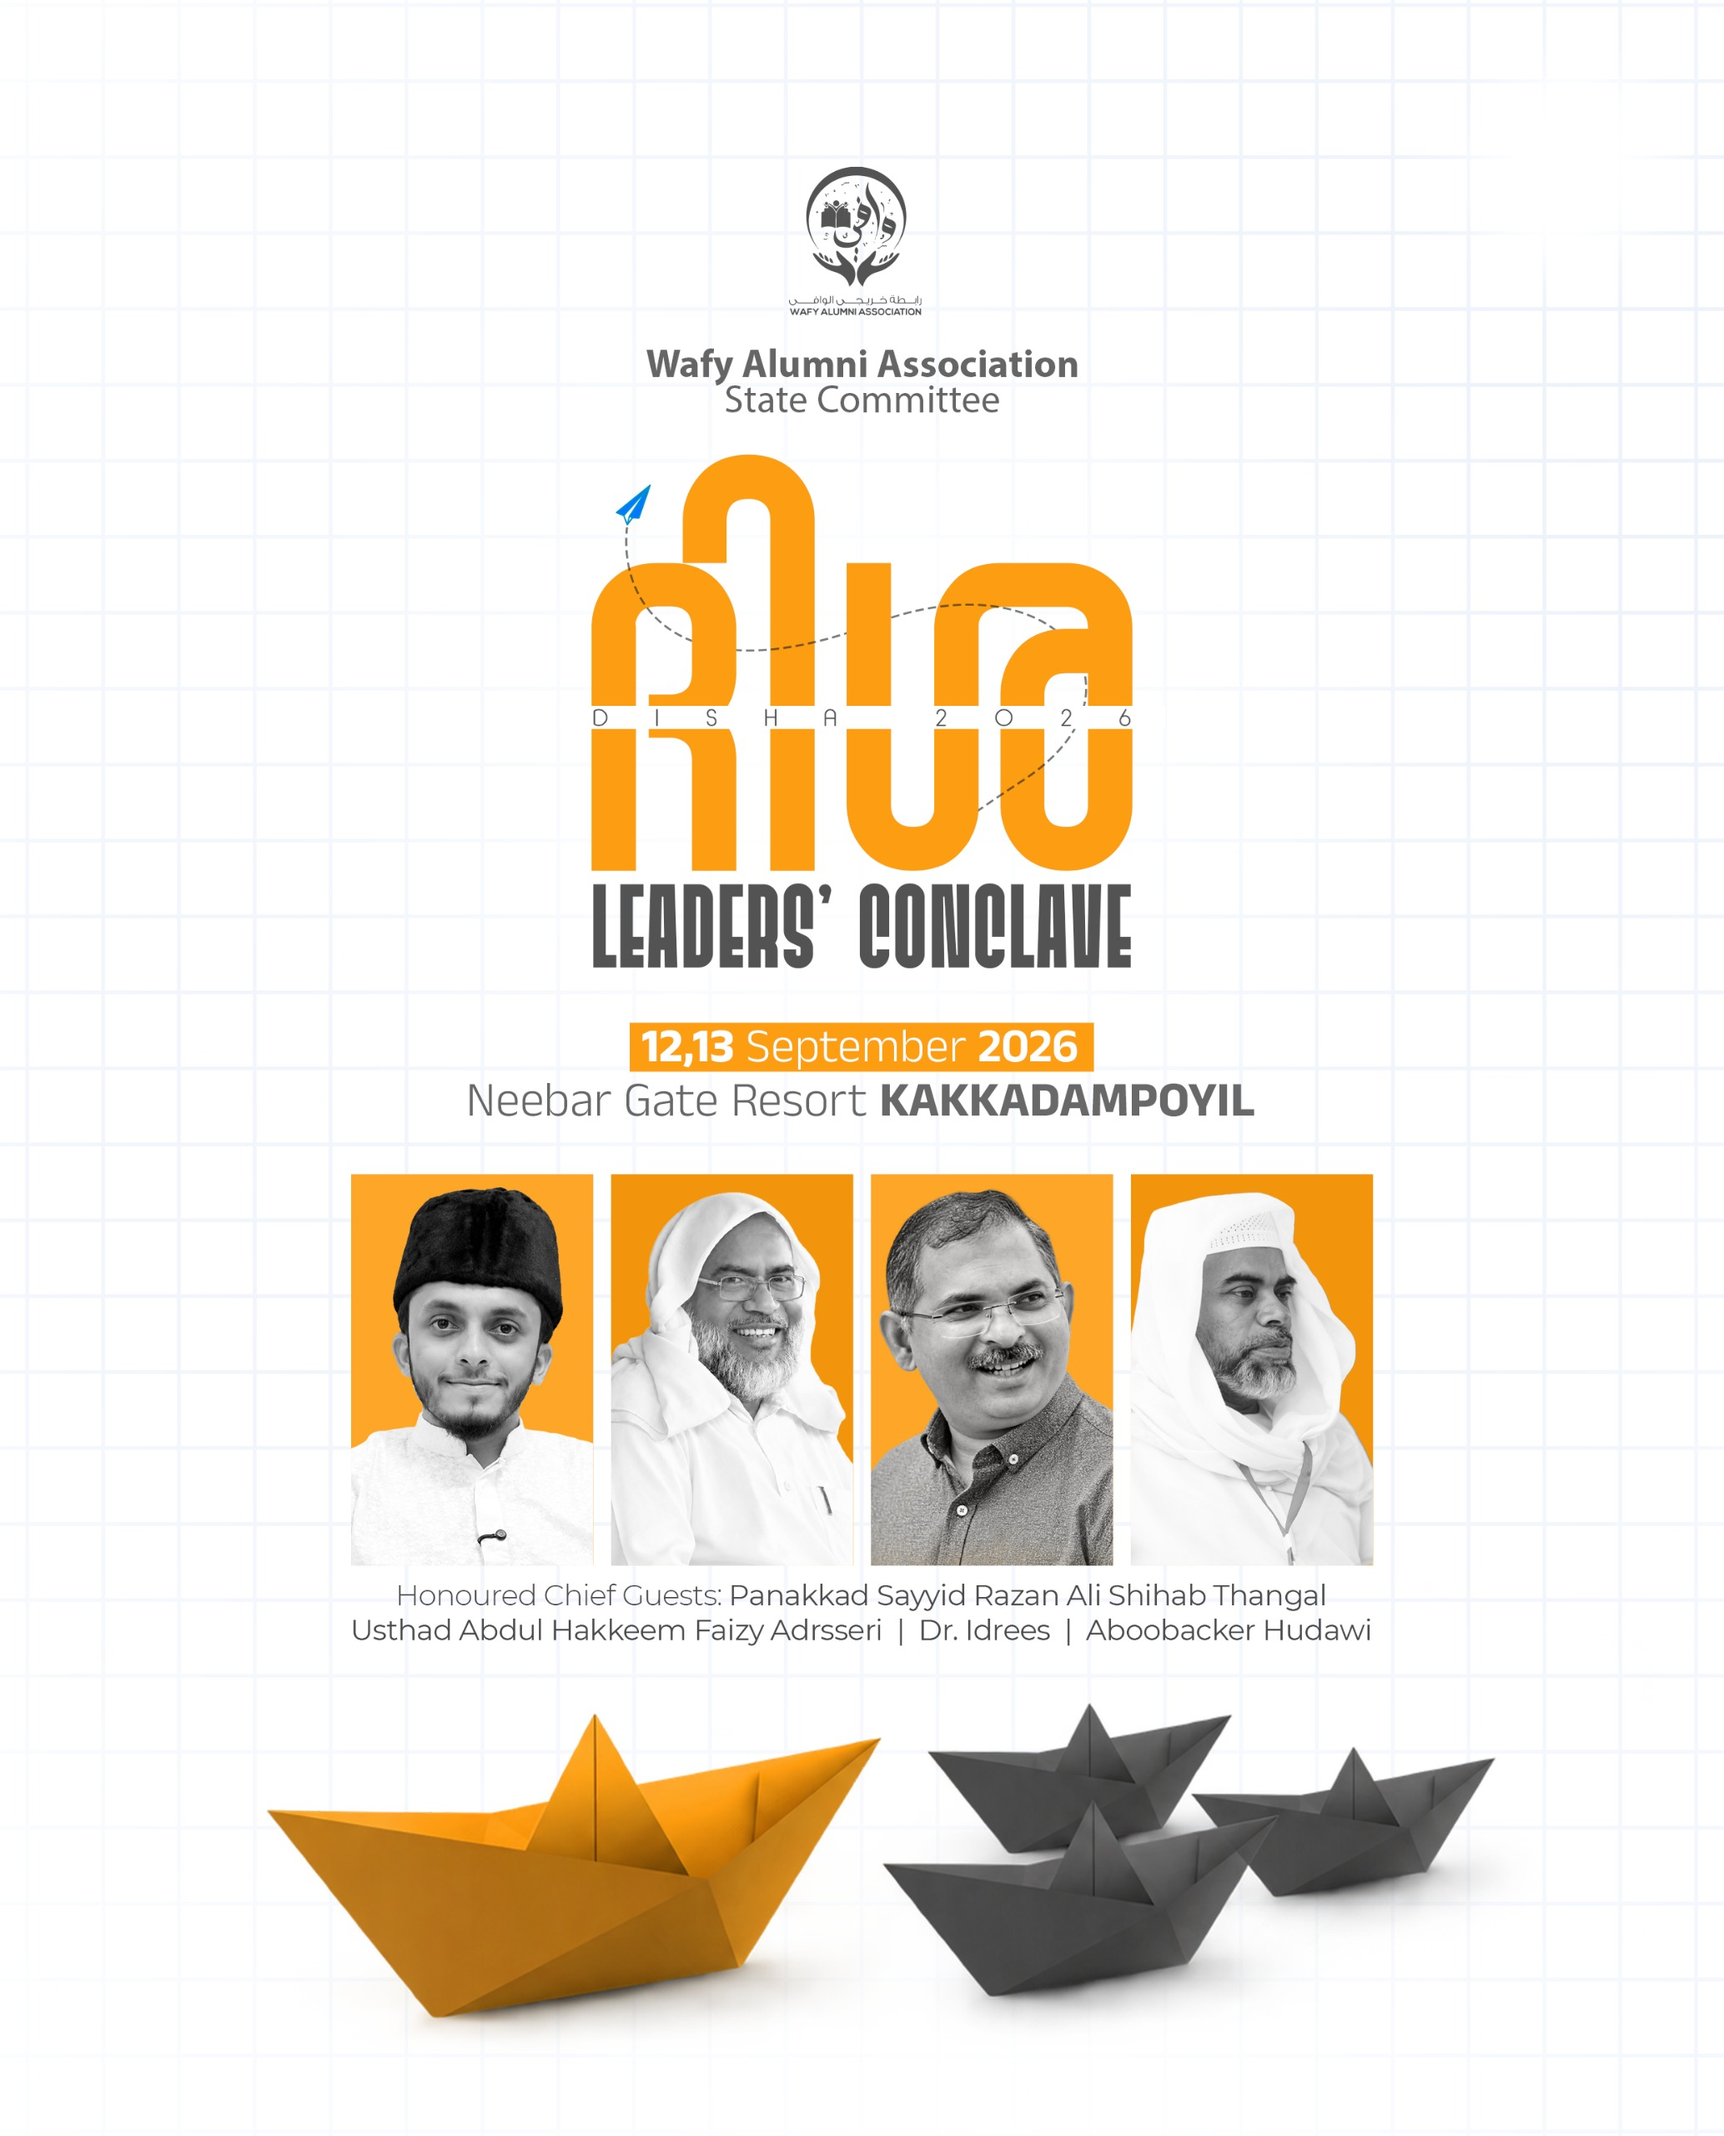
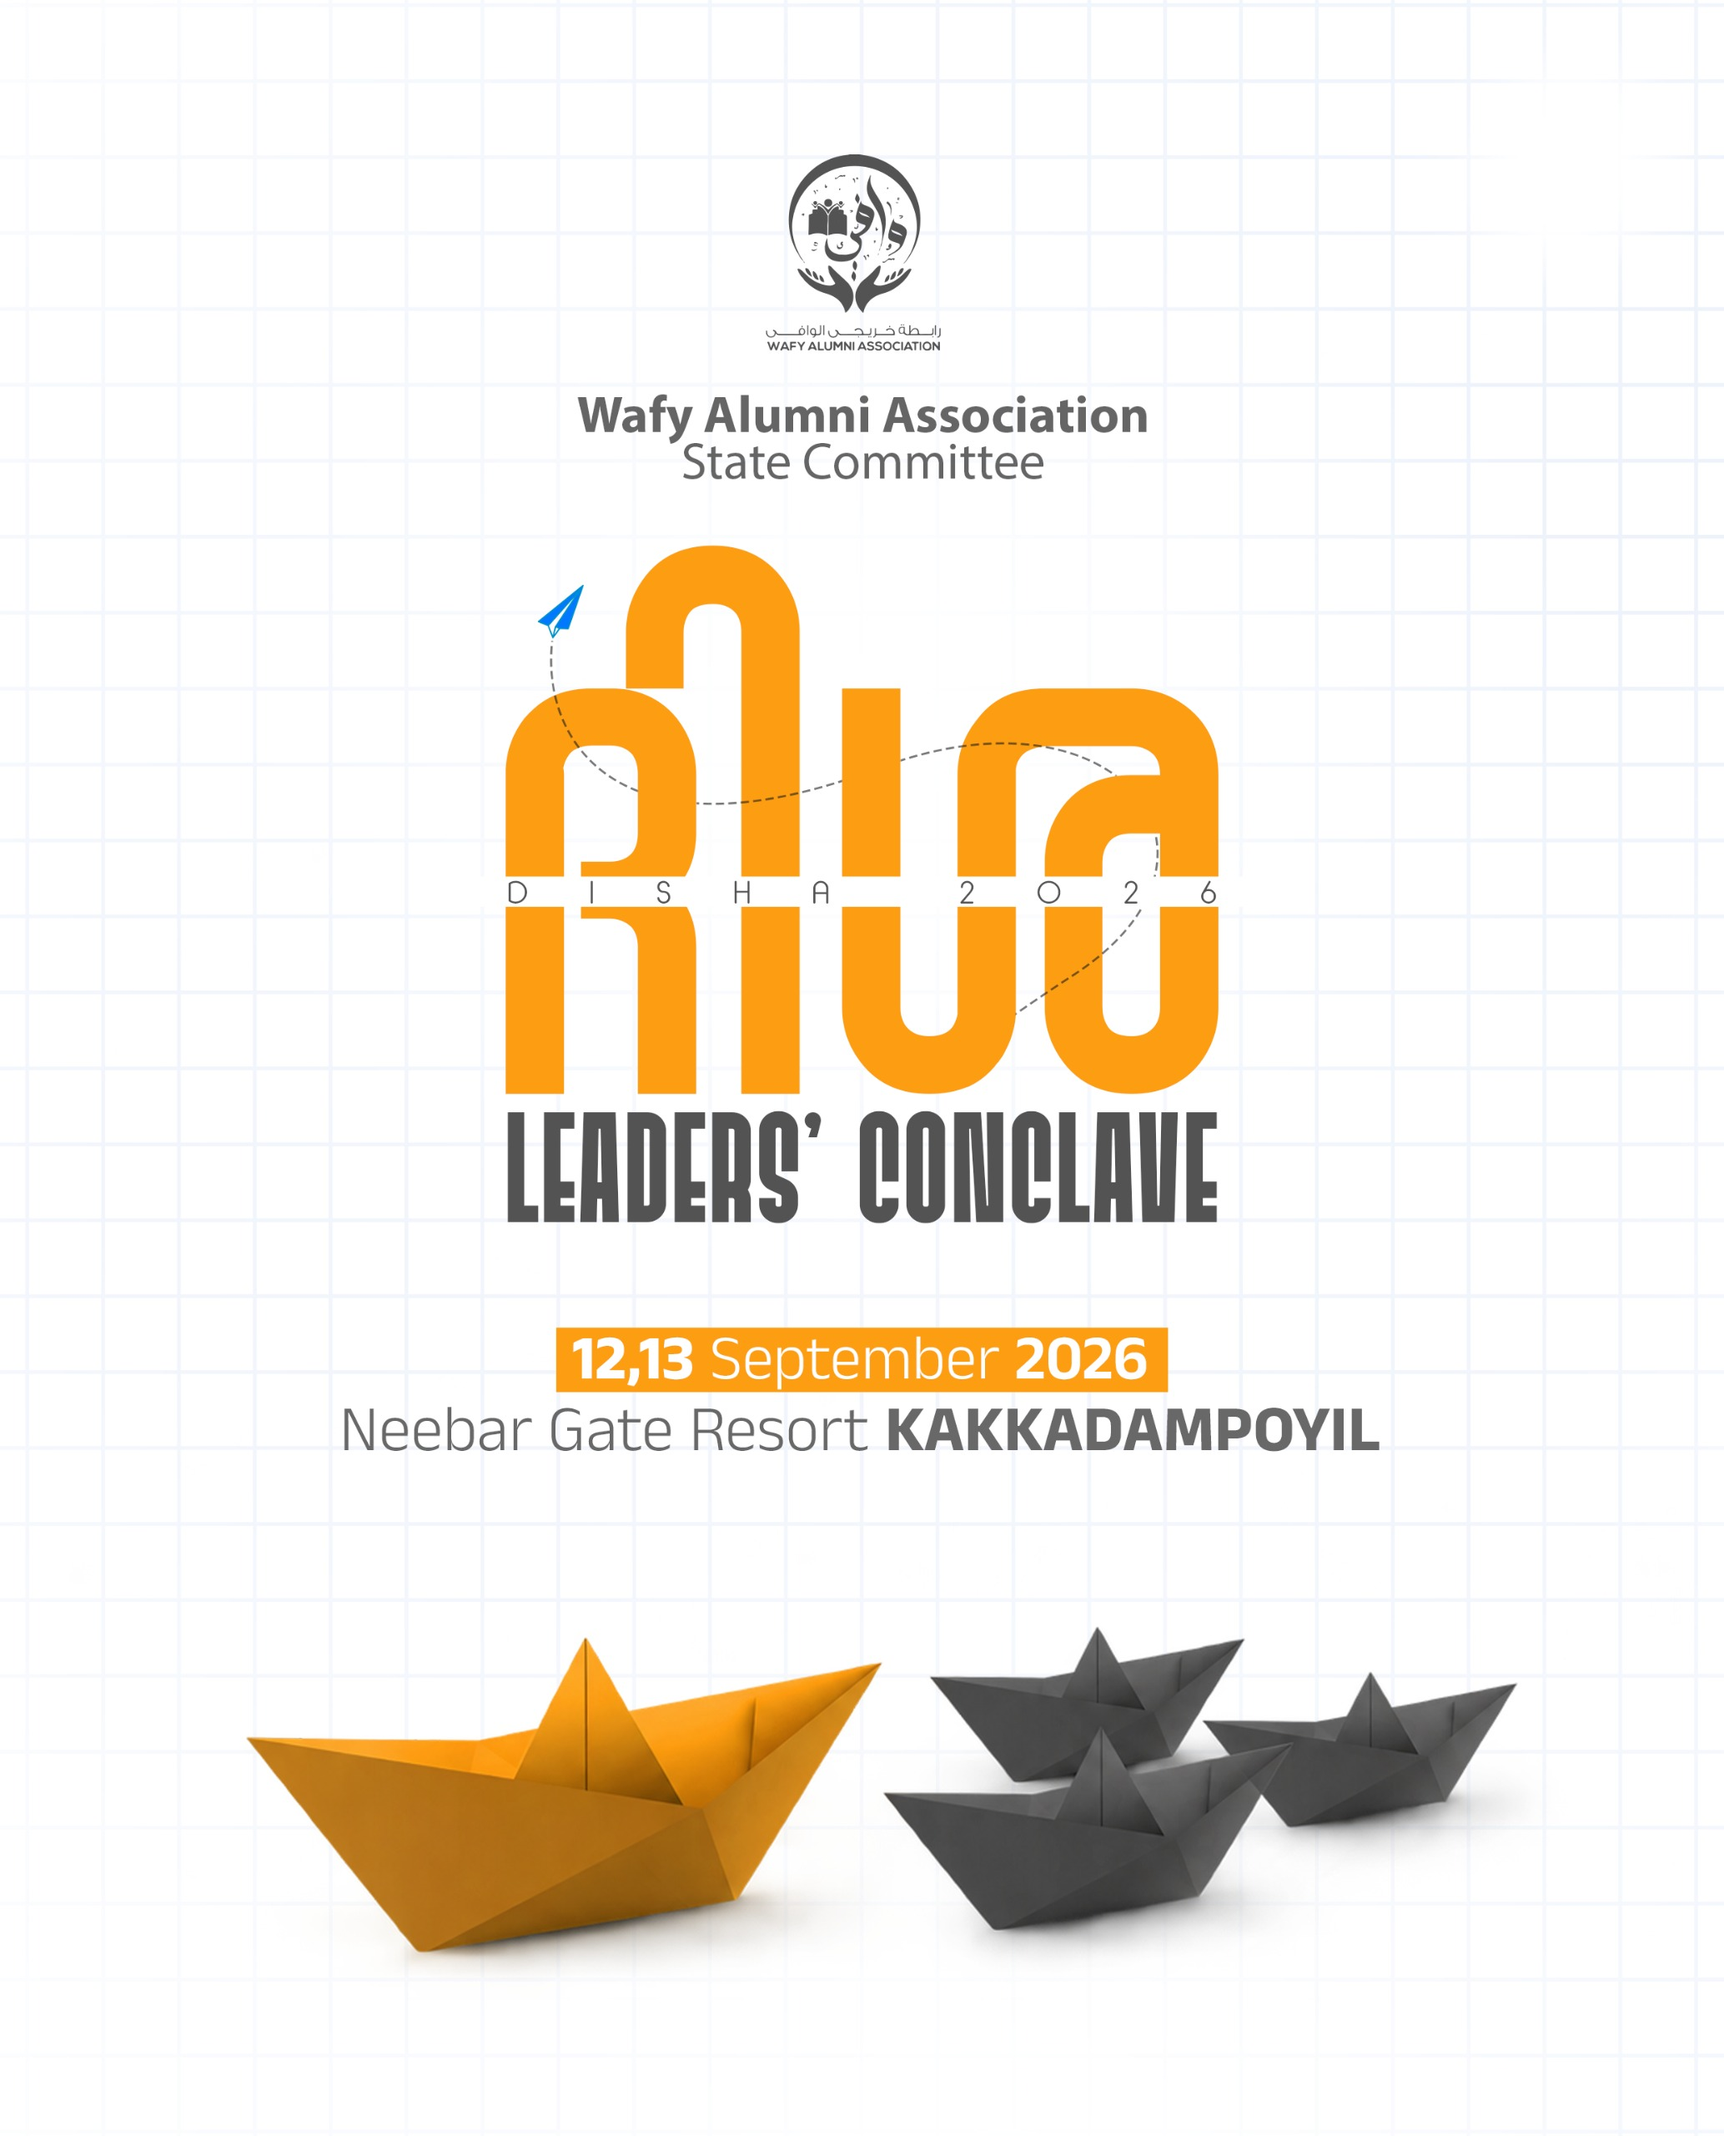
Fix syntax error, remove ticket photo shadow, add react-easy-crop

Changed region(s): [[0.1548, 0.0625, 0.8979, 0.9688]]

diff --git a/inject_cropper.js b/inject_cropper.js
@@ -1,0 +1,158 @@
+const fs = require('fs');
+let code = fs.readFileSync('src/app/registration-form/page.tsx', 'utf8');
+
+if (!code.includes("import Cropper")) {
+  code = code.replace(
+    /import \{ useRouter \} from 'next\/navigation';/,
+    `import { useRouter } from 'next/navigation';\nimport Cropper from 'react-easy-crop';`
+  );
+}
+
+// Inject getCroppedImg helper
+if (!code.includes("getCroppedImg")) {
+  code = code.replace(
+    /export default function RegistrationForm\(\) \{/,
+    `const getCroppedImg = async (imageSrc: string, pixelCrop: any): Promise<string> => {
+  const image = new Image();
+  image.src = imageSrc;
+  await new Promise((resolve) => (image.onload = resolve));
+  const canvas = document.createElement('canvas');
+  canvas.width = 400;
+  canvas.height = 400;
+  const ctx = canvas.getContext('2d');
+  if (ctx) {
+    ctx.drawImage(
+      image,
+      pixelCrop.x,
+      pixelCrop.y,
+      pixelCrop.width,
+      pixelCrop.height,
+      0,
+      0,
+      400,
+      400
+    );
+  }
+  return canvas.toDataURL('image/jpeg', 0.8);
+};
+
+export default function RegistrationForm() {`
+  );
+}
+
+// State variables for cropper
+code = code.replace(
+  /const \[photoBase64, setPhotoBase64\] = useState\(''\);/,
+  `const [photoBase64, setPhotoBase64] = useState('');
+  const [photoRaw, setPhotoRaw] = useState('');
+  const [showCropper, setShowCropper] = useState(false);
+  const [crop, setCrop] = useState({ x: 0, y: 0 });
+  const [zoom, setZoom] = useState(1);
+  const [croppedAreaPixels, setCroppedAreaPixels] = useState(null);`
+);
+
+// Replace handlePhotoUpload
+const oldUpload = `  const handlePhotoUpload = (e: React.ChangeEvent<HTMLInputElement>) => {
+    const file = e.target.files?.[0];
+    if (file) {
+      setPhotoFileName(file.name);
+      const reader = new FileReader();
+      reader.onloadend = () => {
+        const img = new Image();
+        img.onload = () => {
+          const canvas = document.createElement('canvas');
+          const size = Math.min(img.width, img.height);
+          canvas.width = 400;
+          canvas.height = 400;
+          const ctx = canvas.getContext('2d');
+          if (ctx) {
+            const startX = (img.width - size) / 2;
+            const startY = (img.height - size) / 2;
+            ctx.drawImage(img, startX, startY, size, size, 0, 0, 400, 400);
+            setPhotoBase64(canvas.toDataURL('image/jpeg', 0.8));
+          }
+        };
+        img.src = reader.result as string;
+      };
+      reader.readAsDataURL(file);
+    } else {
+      setPhotoFileName('');
+      setPhotoBase64('');
+    }
+  };`;
+
+const newUpload = `  const handlePhotoUpload = (e: React.ChangeEvent<HTMLInputElement>) => {
+    const file = e.target.files?.[0];
+    if (file) {
+      setPhotoFileName(file.name);
+      const reader = new FileReader();
+      reader.onloadend = () => {
+        setPhotoRaw(reader.result as string);
+        setShowCropper(true);
+      };
+      reader.readAsDataURL(file);
+    } else {
+      setPhotoFileName('');
+      setPhotoRaw('');
+      setPhotoBase64('');
+    }
+  };
+
+  const onCropComplete = (croppedArea: any, croppedAreaPixels: any) => {
+    setCroppedAreaPixels(croppedAreaPixels);
+  };
+
+  const saveCrop = async () => {
+    try {
+      const croppedImage = await getCroppedImg(photoRaw, croppedAreaPixels);
+      setPhotoBase64(croppedImage);
+      setShowCropper(false);
+    } catch (e) {
+      console.error(e);
+    }
+  };`;
+
+code = code.replace(oldUpload, newUpload);
+
+// Add the cropper modal before the <form> return
+code = code.replace(
+  /<form onSubmit=\{handleSubmit\}/,
+  `{showCropper && (
+        <div style={{ position: 'fixed', top: 0, left: 0, right: 0, bottom: 0, background: 'rgba(0,0,0,0.8)', zIndex: 9999, display: 'flex', flexDirection: 'column', alignItems: 'center', justifyContent: 'center' }}>
+          <div style={{ position: 'relative', width: '90%', maxWidth: '400px', height: '400px', background: '#333' }}>
+            <Cropper
+              image={photoRaw}
+              crop={crop}
+              zoom={zoom}
+              aspect={1}
+              cropShape="round"
+              showGrid={false}
+              onCropChange={setCrop}
+              onZoomChange={setZoom}
+              onCropComplete={onCropComplete}
+            />
+          </div>
+          <div style={{ padding: '20px', width: '90%', maxWidth: '400px', display: 'flex', flexDirection: 'column', gap: '16px' }}>
+            <input
+              type="range"
+              value={zoom}
+              min={1}
+              max={3}
+              step={0.1}
+              aria-labelledby="Zoom"
+              onChange={(e) => setZoom(Number(e.target.value))}
+              style={{ width: '100%' }}
+            />
+            <div style={{ display: 'flex', gap: '12px' }}>
+              <button type="button" onClick={() => setShowCropper(false)} style={{ flex: 1, padding: '12px', background: '#475569', color: 'white', border: 'none', borderRadius: '8px', fontWeight: '600', cursor: 'pointer' }}>Cancel</button>
+              <button type="button" onClick={saveCrop} style={{ flex: 1, padding: '12px', background: 'var(--primary)', color: 'white', border: 'none', borderRadius: '8px', fontWeight: '600', cursor: 'pointer' }}>Save Crop</button>
+            </div>
+          </div>
+        </div>
+      )}
+
+      <form onSubmit={handleSubmit}`
+);
+
+fs.writeFileSync('src/app/registration-form/page.tsx', code);
+console.log('Cropper installed and injected!');

diff --git a/src/app/registration-form/page.tsx b/src/app/registration-form/page.tsx
@@ -2,6 +2,7 @@
 
 import { useState, useRef, useEffect } from 'react';
 import { useRouter } from 'next/navigation';
+import Cropper from 'react-easy-crop';
 import { db } from '@/lib/firebase';
 import { doc, getDocs, setDoc, serverTimestamp, runTransaction, collection } from 'firebase/firestore';
 
@@ -101,6 +102,30 @@ function SearchableDropdown({ options, value, onChange, placeholder }: { options
   );
 }
 
+const getCroppedImg = async (imageSrc: string, pixelCrop: any): Promise<string> => {
+  const image = new Image();
+  image.src = imageSrc;
+  await new Promise((resolve) => (image.onload = resolve));
+  const canvas = document.createElement('canvas');
+  canvas.width = 400;
+  canvas.height = 400;
+  const ctx = canvas.getContext('2d');
+  if (ctx) {
+    ctx.drawImage(
+      image,
+      pixelCrop.x,
+      pixelCrop.y,
+      pixelCrop.width,
+      pixelCrop.height,
+      0,
+      0,
+      400,
+      400
+    );
+  }
+  return canvas.toDataURL('image/jpeg', 0.8);
+};
+
 export default function RegistrationForm() {
   const router = useRouter();
   const [formData, setFormData] = useState({
@@ -111,6 +136,11 @@ export default function RegistrationForm() {
     designation: ''
   });
   const [photoBase64, setPhotoBase64] = useState('');
+  const [photoRaw, setPhotoRaw] = useState('');
+  const [showCropper, setShowCropper] = useState(false);
+  const [crop, setCrop] = useState({ x: 0, y: 0 });
+  const [zoom, setZoom] = useState(1);
+  const [croppedAreaPixels, setCroppedAreaPixels] = useState(null);
   const [photoFileName, setPhotoFileName] = useState('');
   const [customDesignation, setCustomDesignation] = useState('');
   const [customDistrict, setCustomDistrict] = useState('');
@@ -137,26 +167,28 @@ export default function RegistrationForm() {
       setPhotoFileName(file.name);
       const reader = new FileReader();
       reader.onloadend = () => {
-        const img = new Image();
-        img.onload = () => {
-          const canvas = document.createElement('canvas');
-          const size = Math.min(img.width, img.height);
-          canvas.width = 400;
-          canvas.height = 400;
-          const ctx = canvas.getContext('2d');
-          if (ctx) {
-            const startX = (img.width - size) / 2;
-            const startY = (img.height - size) / 2;
-            ctx.drawImage(img, startX, startY, size, size, 0, 0, 400, 400);
-            setPhotoBase64(canvas.toDataURL('image/jpeg', 0.8));
-          }
-        };
-        img.src = reader.result as string;
+        setPhotoRaw(reader.result as string);
+        setShowCropper(true);
       };
       reader.readAsDataURL(file);
     } else {
       setPhotoFileName('');
+      setPhotoRaw('');
       setPhotoBase64('');
+    }
+  };
+
+  const onCropComplete = (croppedArea: any, croppedAreaPixels: any) => {
+    setCroppedAreaPixels(croppedAreaPixels);
+  };
+
+  const saveCrop = async () => {
+    try {
+      const croppedImage = await getCroppedImg(photoRaw, croppedAreaPixels);
+      setPhotoBase64(croppedImage);
+      setShowCropper(false);
+    } catch (e) {
+      console.error(e);
     }
   };
 
@@ -247,6 +279,40 @@ export default function RegistrationForm() {
       {error && (
         <div style={{ backgroundColor: '#fee2e2', color: 'var(--danger)', padding: '16px', borderRadius: '16px', marginBottom: '24px', fontWeight: '500', fontSize: '0.9rem', textAlign: 'center' }}>
           {error}
+        </div>
+      )}
+
+      {showCropper && (
+        <div style={{ position: 'fixed', top: 0, left: 0, right: 0, bottom: 0, background: 'rgba(0,0,0,0.8)', zIndex: 9999, display: 'flex', flexDirection: 'column', alignItems: 'center', justifyContent: 'center' }}>
+          <div style={{ position: 'relative', width: '90%', maxWidth: '400px', height: '400px', background: '#333' }}>
+            <Cropper
+              image={photoRaw}
+              crop={crop}
+              zoom={zoom}
+              aspect={1}
+              cropShape="round"
+              showGrid={false}
+              onCropChange={setCrop}
+              onZoomChange={setZoom}
+              onCropComplete={onCropComplete}
+            />
+          </div>
+          <div style={{ padding: '20px', width: '90%', maxWidth: '400px', display: 'flex', flexDirection: 'column', gap: '16px' }}>
+            <input
+              type="range"
+              value={zoom}
+              min={1}
+              max={3}
+              step={0.1}
+              aria-labelledby="Zoom"
+              onChange={(e) => setZoom(Number(e.target.value))}
+              style={{ width: '100%' }}
+            />
+            <div style={{ display: 'flex', gap: '12px' }}>
+              <button type="button" onClick={() => setShowCropper(false)} style={{ flex: 1, padding: '12px', background: '#475569', color: 'white', border: 'none', borderRadius: '8px', fontWeight: '600', cursor: 'pointer' }}>Cancel</button>
+              <button type="button" onClick={saveCrop} style={{ flex: 1, padding: '12px', background: 'var(--primary)', color: 'white', border: 'none', borderRadius: '8px', fontWeight: '600', cursor: 'pointer' }}>Save Crop</button>
+            </div>
+          </div>
         </div>
       )}
 

diff --git a/remove_shadow.js b/remove_shadow.js
@@ -1,0 +1,14 @@
+const fs = require('fs');
+let c = fs.readFileSync('src/app/ticket/[id]/page.tsx', 'utf8');
+
+// The photo div currently looks like:
+// <div style={{ width: '120px', height: '120px', borderRadius: '50%', overflow: 'hidden', marginBottom: '16px', display: 'flex', justifyContent: 'center', alignItems: 'center', border: '1px solid rgba(255,255,255,0.4)', padding: '2px' }}>
+
+// Actually wait, let me check what it currently looks like.
+c = c.replace(
+  /boxShadow:\s*'0 4px 15px rgba\(0,0,0,0\.2\)',?\s*/g,
+  ''
+);
+
+fs.writeFileSync('src/app/ticket/[id]/page.tsx', c);
+console.log('Shadow removed!');

diff --git a/fix_syntax.js b/fix_syntax.js
@@ -1,0 +1,13 @@
+const fs = require('fs');
+let c = fs.readFileSync('src/app/ticket/[id]/page.tsx', 'utf8');
+
+c = c.replace(
+  /<\/div>\s*<\/div>\s*<\/div>\s*<div style=\{\{\s*display:\s*'flex',\s*gap:\s*'12px',\s*width:\s*'100%',\s*maxWidth:\s*'340px'\s*\}\}>/,
+  `</div>
+      </div>
+
+      <div style={{ display: 'flex', gap: '12px', width: '100%', maxWidth: '340px' }}>`
+);
+
+fs.writeFileSync('src/app/ticket/[id]/page.tsx', c);
+console.log('Syntax fixed!');

diff --git a/src/app/ticket/[id]/page.tsx b/src/app/ticket/[id]/page.tsx
@@ -184,9 +184,6 @@ export default function Ticket() {
 
         </div>
       </div>
-      </div>
-
-      
 
       <div style={{ display: 'flex', gap: '12px', width: '100%', maxWidth: '340px' }}>
         <button onClick={handleDownload} className="btn-primary" style={{ flex: 1, padding: '16px 0' }}>
